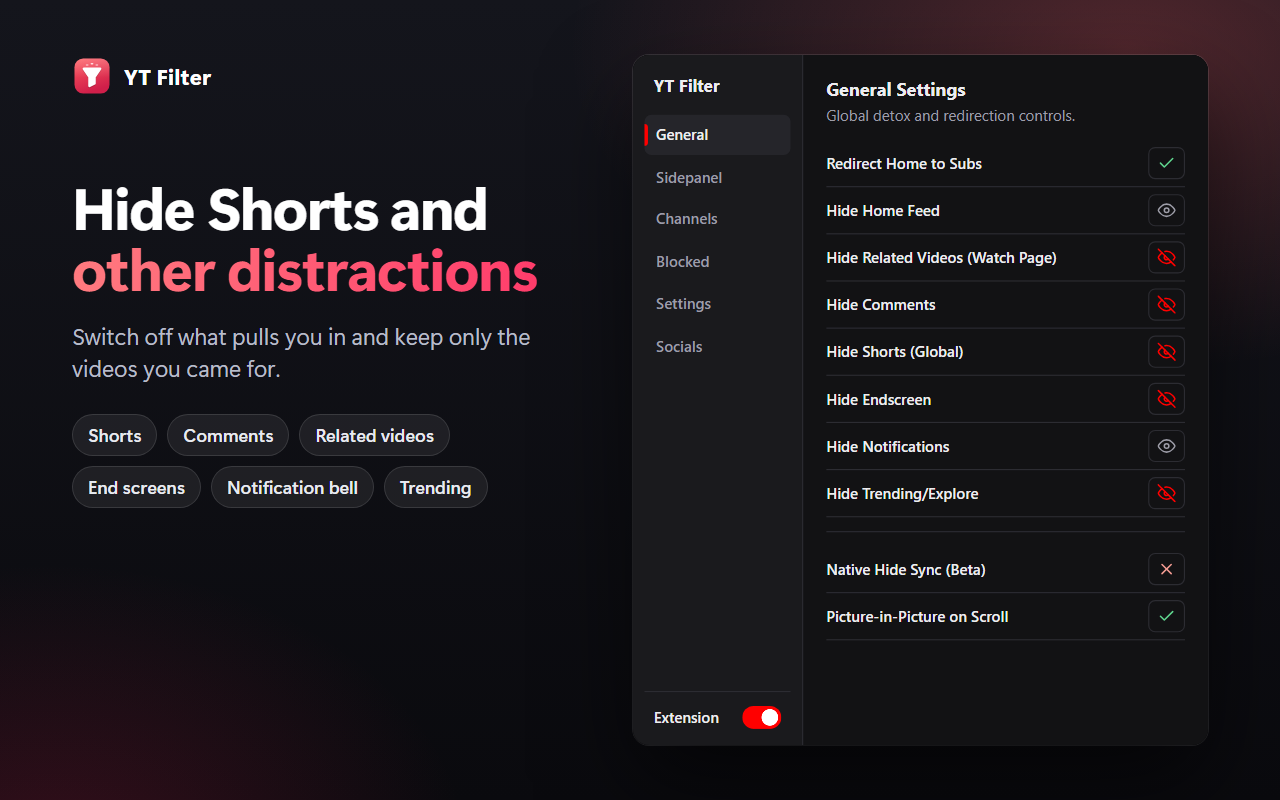
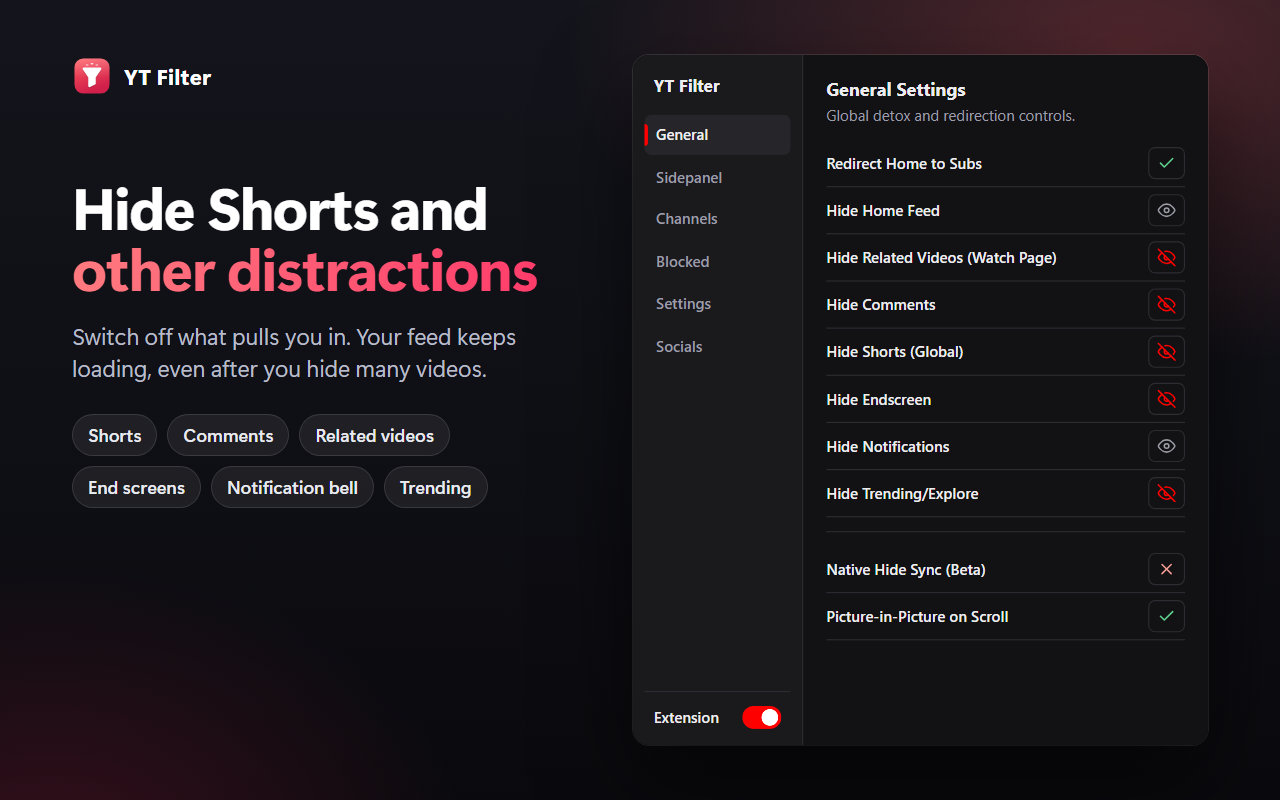
docs: store listing, screenshots and user guide for 4.5.1

Changed region(s): [[0.0625, 0.4062, 0.4062, 0.5]]

diff --git a/store-assets/listing.md b/store-assets/listing.md
@@ -6,60 +6,73 @@ Copy-paste texts and field values for the **Chrome Web Store** and **Microsoft E
 
 Both come from the package (`_locales/en/messages.json`: `extName`, `extDesc`), do not enter them by hand.
 
-**Name** (37 characters, Chrome allows 75)
+**Name** (54 characters, Chrome allows 75; live Edge listings use names of up to 72)
 
 ```
-Channel & Shorts Blocker for YouTube™
+YT Filter – Channel Blocker & Hide Shorts for YouTube™
 ```
 
-**Short description** (130 characters, max. 132)
+**Short description** (127 characters, max. 132)
 
 ```
-Block YouTube channels, hide Shorts, and filter videos by title keyword or length. A cleaner feed with no tracking and no account.
+Block channels, hide Shorts and comments, filter videos by keyword or length. A calmer YouTube with no account and no tracking.
 ```
 
 Why it reads this way:
 
-- The words people search for ("channel blocker", "shorts blocker", "youtube") are in the name. The short description adds the verbs ("block", "hide", "filter"), as Google recommends.
+- The name carries the brand and the two phrases people search for most for this kind of tool, "channel blocker" and "hide shorts". "Filter" is part of the brand.
 - "for YouTube™" is the form Google's branding guidelines allow for compatible products. YouTube is not the leading product name, and the logo contains no YouTube shapes (no play triangle, no red tile).
-- The brand "YT Filter" stays in the logo, the images and the first sentence of the description.
-- No keyword is repeated conspicuously (Google's rule of thumb: fewer than about five repetitions). "Shorts" appears four times.
+- The short description starts with the actions, because search results show only the beginning.
+- Edge search position of the previous listing on 2026-11-26 (version 4.4.0, name "YouTube Channel Blocker & Video Filter", no ratings yet): "youtube keyword filter" 9, "youtube filter" 13, "block youtube channels" 25, "youtube channel blocker" 30, "youtube shorts blocker" 50, "hide shorts" not in the first 60. Compare again a week or two after the new version is live.
 
 ## Description (both stores)
 
 ```
-YT Filter takes the clutter out of YouTube. Block channels you never want to see again, hide Shorts, and filter videos by title keyword or length, all from one clean popup.
+Take back your feed. YT Filter blocks the channels you never want to see again, hides Shorts and other distractions, and filters videos by title keyword or length. Free, without an account and without tracking.
 
-WHAT YOU CAN DO
+BLOCK WHAT YOU DO NOT WANT
+• Block a channel with one click on the icon next to its name, or add its @handle.
+• Its videos disappear from the home feed, search results and recommendations.
+• Review your list and undo any entry at any time.
 
-• Block channels: click the block icon next to a channel name, or add an @handle. Their videos disappear from your home feed, search results and recommendations.
-• Hide Shorts: remove the Shorts shelf and the links to them from your feed and sidebar.
-• Filter by keyword: hide, or only show, videos whose title contains, starts with, ends with or exactly matches the words you choose.
-• Filter by length: set a minimum or maximum duration for a channel to skip 30-second clips or three-hour streams.
-• Rules per channel: give a channel its own settings for keywords, duration, comments, end screens and the notification bell, while everything else follows your global setup.
-• Fewer distractions: hide the home feed, related videos, comments, end screens, the notification bell and Trending.
-• Cleaner sidebar: hide Home, Shorts, Explore, More from YouTube and other sections, and auto-expand your subscription list.
-• Subscription count: see how many channels you follow right in the sidebar, for example "Subscriptions (46)".
-• Extras: open your Subscriptions page instead of the home feed, and keep a floating mini player while you scroll a video page.
+FEWER DISTRACTIONS
+• Hide Shorts on the feed and in the sidebar.
+• Hide the home feed, related videos, comments, end screens, the notification bell and Trending.
+• Open your subscriptions instead of the home page.
+
+FILTER BY KEYWORD AND LENGTH
+• Hide, or only show, videos whose title contains, starts with, ends with or exactly matches your words.
+• Set a minimum or maximum duration, for example to skip 30-second clips or three-hour streams.
+• Give single channels their own rules. Everything else follows your general settings.
+
+A SMOOTHER SUBSCRIPTIONS PAGE
+• The feed keeps loading after you have hidden many videos, instead of stopping at grey placeholders.
+• "Show more" opens your full list right in the sidebar, without sending you to another page.
+• See how many subscriptions you have, for example "Subscriptions (46)".
+• Hide sidebar sections you never use, or keep your list always expanded.
+• A floating mini player stays in view while you scroll below a video.
 
 PRIVATE BY DESIGN
+• No ads, no analytics, no servers. The extension works entirely in your browser.
+• Your lists and rules sync through your browser account.
+• Export and import your settings as a file.
+• Light and dark theme.
 
-• No account, no ads, no analytics and no servers. The extension runs in your browser.
-• Your block list and rules sync across your devices through your browser account.
-• Export and import everything as a JSON file for backup.
-• The popup follows your light or dark system theme.
+GET STARTED IN A MINUTE
+1. Install the extension and reload your open tabs.
+2. Click its icon and switch on what you want under General and Sidepanel.
+3. Hide creators right on the page, or add them in the Blocked tab.
+4. Add rules for single creators in the Channels tab.
 
-HOW TO START
-
-1. Install the extension and open youtube.com.
-2. Click the YT Filter icon and switch on what you want in General and Sidepanel.
-3. Block a channel with the icon next to its name, or add its @handle in the Blocked tab.
-4. Open the Channels tab for rules with keywords and duration.
+GOOD TO KNOW
+• Is this an ad blocker? No. YT Filter is about what appears on your pages: creators, Shorts, videos and clutter.
+• Do I need an account? No.
+• Where is my data? In your browser, and in your browser account if sync is switched on. Nothing is sent to us.
+• Something stopped working? YouTube changes its pages from time to time. Please report it through the support link.
 
 PERMISSIONS
-
-• storage: saves your block list, rules and settings and syncs them through your browser account.
-• Access to youtube.com only: the filters run on YouTube pages. Nothing is sent anywhere.
+• storage: saves your lists, rules and settings.
+• Access to youtube.com only: your rules run there and nowhere else.
 
 YouTube is a trademark of Google LLC. YT Filter is an independent extension and is not affiliated with, endorsed by or sponsored by Google or YouTube.
 ```
@@ -68,9 +81,10 @@ YouTube is a trademark of Google LLC. YT Filter is an independent extension and 
 
 | Field | Value |
 |---|---|
-| Category | Productivity (alternative: Entertainment) |
+| Category | Productivity (Chrome: Productivity > Tools) |
 | Language | English |
-| Website | `https://github.com/exUs541/YouTube-Extension` |
+| Website | `https://exus541.github.io/portfolio/details/ytfilter.html` |
+| Support URL | `https://github.com/exUs541/YouTube-Extension/issues` |
 | Privacy policy URL | `https://github.com/exUs541/YouTube-Extension/blob/main/PRIVACY_POLICY.md` |
 | Mature content / remote code | No / No |
 
@@ -81,7 +95,7 @@ Paste into the Developer Dashboard, tab "Privacy practices".
 **Single purpose**
 
 ```
-Filter and declutter the YouTube website: block channels, hide Shorts and other page elements, and hide videos by title keyword or duration.
+Filter and declutter the YouTube website: block channels, hide Shorts and other page elements, hide videos by title keyword or duration, and keep the feed and the subscription list usable.
 ```
 
 **storage justification**
@@ -93,26 +107,26 @@ Saves the user's block list, channel rules and settings, and syncs them across t
 **Host permission justification (youtube.com)**
 
 ```
-The content script runs only on youtube.com pages. It hides videos, Shorts and page elements according to the user's rules and adds a block button next to channel names. It reads page content only to apply these rules and sends nothing to any server.
+The content script runs only on youtube.com pages. It hides videos, Shorts and page elements according to the user's rules, adds a block button next to channel names, shows the number of subscriptions, keeps "Show more" in the sidebar on the same page and restarts the feed when YouTube stops loading it. It reads page content only for these functions and sends nothing to any server.
 ```
 
 **Remote code:** No. **Data usage:** the extension does not collect or transmit user data. Tick none of the data types and confirm the three certifications (no sale of data, no use unrelated to the single purpose, no creditworthiness use).
 
 ## Microsoft Edge only
 
-**Search terms** (max. 7 terms, each max. 30 characters; one term per field in Partner Center)
+**Search terms** (max. 7 terms, each max. 30 characters, 21 words in total; one term per field in Partner Center)
 
 ```
 youtube channel blocker
-hide youtube shorts
+block youtube channels
 youtube shorts blocker
-youtube video filter
+hide youtube comments
 youtube keyword filter
 distraction free youtube
-clean youtube feed
+hide recommendations
 ```
 
-They cover the searches that match the features: blocking channels, hiding Shorts, filtering by keyword and length, distraction-free viewing. Each term is worded differently so that none repeats another.
+20 words. Each term is a search that matches a function; "hide shorts" and "video filter" are already covered by the name and the other terms.
 
 **Notes for certification**
 
@@ -121,7 +135,9 @@ No account or login is needed. The extension runs only on youtube.com and stores
 
 How to test: open https://www.youtube.com, click the extension icon, open the Blocked tab, add a channel handle and reload - videos from that channel disappear from the feed. In the General tab switch on "Hide Shorts (Global)" to remove Shorts from the feed.
 
-Single purpose: filter and declutter the YouTube website (block channels, hide Shorts, filter by keyword or duration).
+When signed in: the sidebar shows the number of subscriptions, "Show more" under Subscriptions opens the list in place, and the subscriptions feed continues to load after videos were hidden.
+
+Single purpose: filter and declutter the YouTube website.
 
 Permissions
 - storage: save the user's block list, filters and settings and sync them through the browser account.
@@ -130,7 +146,8 @@ Permissions
 
 ## Maintainer notes
 
-- Icons, name and short description ship inside the package. They go live only when `version` in `manifest.json` is raised and the change reaches the default branch (the pipeline publishes only on a higher version). Until then the stores show the old logo and name.
-- The privacy policy URL points at `main`. The updated text (new name, permissions) is visible there after the merge.
+- Icons, name and short description ship inside the package. They go live only when `version` in `manifest.json` is raised and the change reaches the default branch (the pipeline publishes only on a higher version).
+- Description, screenshots, category, search terms and links are entered by hand in the Chrome Developer Dashboard and in Partner Center. Both stores reject changes while a version is in review.
+- The privacy policy URL points at `main`.
 - A name change is applied in the Chrome Web Store on the next update. The URL of the listing stays the same.
 - Rebuild the Edge package after a version bump: `store-kit\Build-EdgePackages.ps1 -Only YouTube -Local`.

diff --git a/docs/USER_GUIDE.md b/docs/USER_GUIDE.md
@@ -29,7 +29,7 @@
 - **Customize the sidebar** by removing sections you don't need
 - **Set rules per channel** – filter videos by title keywords, duration, or type
 - **Block entire channels** – all their videos disappear from your feed instantly
-- **Personalize the look** with custom colors, themes, and emoji styles
+- **Personalize the look** with your own accent color
 
 Think of it as a **"Digital Detox Toolkit"** for YouTube.
 
@@ -66,7 +66,7 @@ The popup has a **sidebar navigation** on the left with 6 tabs:
 | **Sidepanel** | 📁 | Hide sections from YouTube's left navigation |
 | **Channels** | 📺 | Per-channel rules (keywords, duration, shorts) |
 | **Blocked** | 🚫 | Completely block channels – their videos disappear |
-| **Settings** | 🎨 | Colors, themes, language, emoji customization |
+| **Settings** | 🎨 | Colors, themes, language |
 | **Changelog** | 📜 | Version history and release notes |
 
 ### The Power Toggle
@@ -95,9 +95,10 @@ The **General** tab contains global toggles that affect the entire YouTube site.
 | **Hide Trending** | Removes trending/explore content from the feed. |
 
 ### How Toggles Work
-- Click the toggle icon to switch between **visible** (👁) and **hidden** (❌)
+- Click the toggle icon to switch between **visible** (open eye) and **hidden** (crossed-out eye)
+- Toggles that simply turn a feature on or off show a **check mark** (on) or a **cross** (off)
 - Changes take effect **immediately** – no need to reload YouTube
-- The exact icons depend on your selected [Emoji Theme](#emoji-themes)
+- See [Toggle Icons](#toggle-icons) for the full list
 
 ---
 
@@ -122,7 +123,12 @@ The **Sidepanel** tab lets you hide specific sections from YouTube's left naviga
 At the bottom of this tab (below the divider), there are two special toggles:
 
 - **Auto-expand Subscriptions**: Automatically clicks the "Show more" button in the Subscriptions section, so you always see ALL your subscribed channels without manually expanding.
-- **Show Subscription Count** (on by default): Shows how many channels you are subscribed to in brackets behind the section title, e.g. **Subscriptions (123)**. The number is counted from the channel list in the sidebar and is exact even while the list is collapsed behind "Show more". Only if YouTube has not loaded the hidden channels yet, you'll briefly see a lower bound such as **(7+)** – expand the list (or enable **Auto-expand Subscriptions**) to get the exact number.
+- **Show Subscription Count** (on by default): Shows how many channels you are subscribed to in brackets behind the section title, e.g. **Subscriptions (123)**. The number is counted from the channel list in the sidebar and is exact even while the list is collapsed behind "Show more". Right after the page loads you may briefly see a lower bound such as **(7+)**.
+
+Two things happen automatically while the extension is switched on:
+
+- **"Show more" stays on the page**: The hidden channels are put into the sidebar in advance (the list stays closed), and clicking "Show more" is not allowed to open another page. "All subscriptions" still works as usual.
+- **The feed keeps loading**: When the grey placeholders at the end of a feed stay in view and nothing happens, for example after you hid many videos in your subscriptions, the extension makes YouTube load the next videos. This can take a few seconds.
 
 ---
 
@@ -248,18 +254,17 @@ Choose the display language for the extension:
 
 The language change takes effect immediately – no restart needed.
 
-### Emoji Themes
-Customize the toggle icons used throughout the extension:
+### Toggle Icons
+All toggles in the extension use the same four icons:
 
-| Theme | Visible | Hidden | Active | Inactive |
-|-------|---------|--------|--------|----------|
-| **Classic** | 👁 | 🙈 | ✅ | ❌ |
-| **Privacy** | 🛡 | 🚫 | 🟢 | 🔴 |
-| **Check** | ✔ | ✖ | 🔘 | ⚪ |
-| **Pulse** | 🔴 | ⚪ | 🔴 | 🔘 |
-| **Custom** | (your choice) | (your choice) | (your choice) | (your choice) |
+| Icon | Meaning |
+|------|---------|
+| Open eye | **Visible** – the element is shown |
+| Crossed-out eye | **Hidden** – the element is hidden |
+| Check mark | **On** – the feature is active |
+| Cross | **Off** – the feature is inactive |
 
-With **Custom**, you can type any emoji into each field to create your own theme.
+The icons are fixed and can't be customized.
 
 ---
 

diff --git a/store-assets/README.md b/store-assets/README.md
@@ -38,9 +38,9 @@ store-assets/
 Screenshot order (the first counts most) and the optional captions for Edge:
 
 1. `screenshot-1-block-channels.png` – "Block any YouTube channel with one click"
-2. `screenshot-2-hide-shorts.png` – "Hide Shorts, comments, related videos and other distractions"
+2. `screenshot-2-hide-shorts.png` – "Hide Shorts and other distractions, with a feed that keeps loading"
 3. `screenshot-3-keyword-and-duration-rules.png` – "Rules per channel: title keywords and video length"
-4. `screenshot-4-sidebar-subscription-count.png` – "A cleaner sidebar that shows how many channels you follow"
+4. `screenshot-4-sidebar-subscription-count.png` – "Your channel count in the sidebar, and Show more stays on the page"
 5. `screenshot-5-private-synced-backup.png` – "No tracking. Settings sync and can be backed up. Light and dark theme"
 
 ## File naming
@@ -65,4 +65,4 @@ node store-assets/_source/make-icons.mjs       # icons/icon16/32/48/128.png and 
 ## Notes
 
 - The logo is an original mark (a funnel on a tile) and contains no YouTube shapes. Google's branding guidelines do not allow Google marks or altered marks as a logo.
-- The texts describe only features that exist in the code. The subscription counter was checked live on 2026-11-14; a live test of all other features against the current YouTube layout is still open.
+- The texts describe only features that exist in the code. Checked live on 2026-11-26: subscription counter, "Show more" and the feed reload. A live test of all other features against the current YouTube layout is still open.

diff --git a/README.md b/README.md
@@ -1,6 +1,6 @@
 <p align="center"><img src="icons/icon128.png" width="96" alt="YT Filter logo"></p>
 
-<h1 align="center">YT Filter – Channel & Shorts Blocker for YouTube™</h1>
+<h1 align="center">YT Filter – Channel Blocker & Hide Shorts for YouTube™</h1>
 
 <p align="center"><b>Block YouTube channels, hide Shorts, and filter videos by title keyword or length.<br>No account, no tracking, no servers.</b></p>
 
@@ -22,6 +22,8 @@
 - **Rules per channel**: keywords, duration, comments, end screens and the notification bell for one channel, while the rest follows your global setup.
 - **Fewer distractions**: hide the home feed, related videos, comments, end screens, the notification bell and Trending.
 - **Cleaner sidebar**: hide Home, Shorts, Explore and other sections, auto-expand your subscriptions and see how many channels you follow, e.g. `Subscriptions (46)`.
+- **"Show more" stays on the page**: it opens your channel list in the sidebar instead of sending you to another page.
+- **The feed keeps loading**: if YouTube stops at grey placeholders, for example after you hid many videos, the next videos are loaded.
 - **Extras**: open the Subscriptions page instead of the home feed; a floating mini player while you scroll a video page.
 - **Private**: settings stay in your browser and sync through your browser account. Export and import as JSON. Light and dark theme.
 
